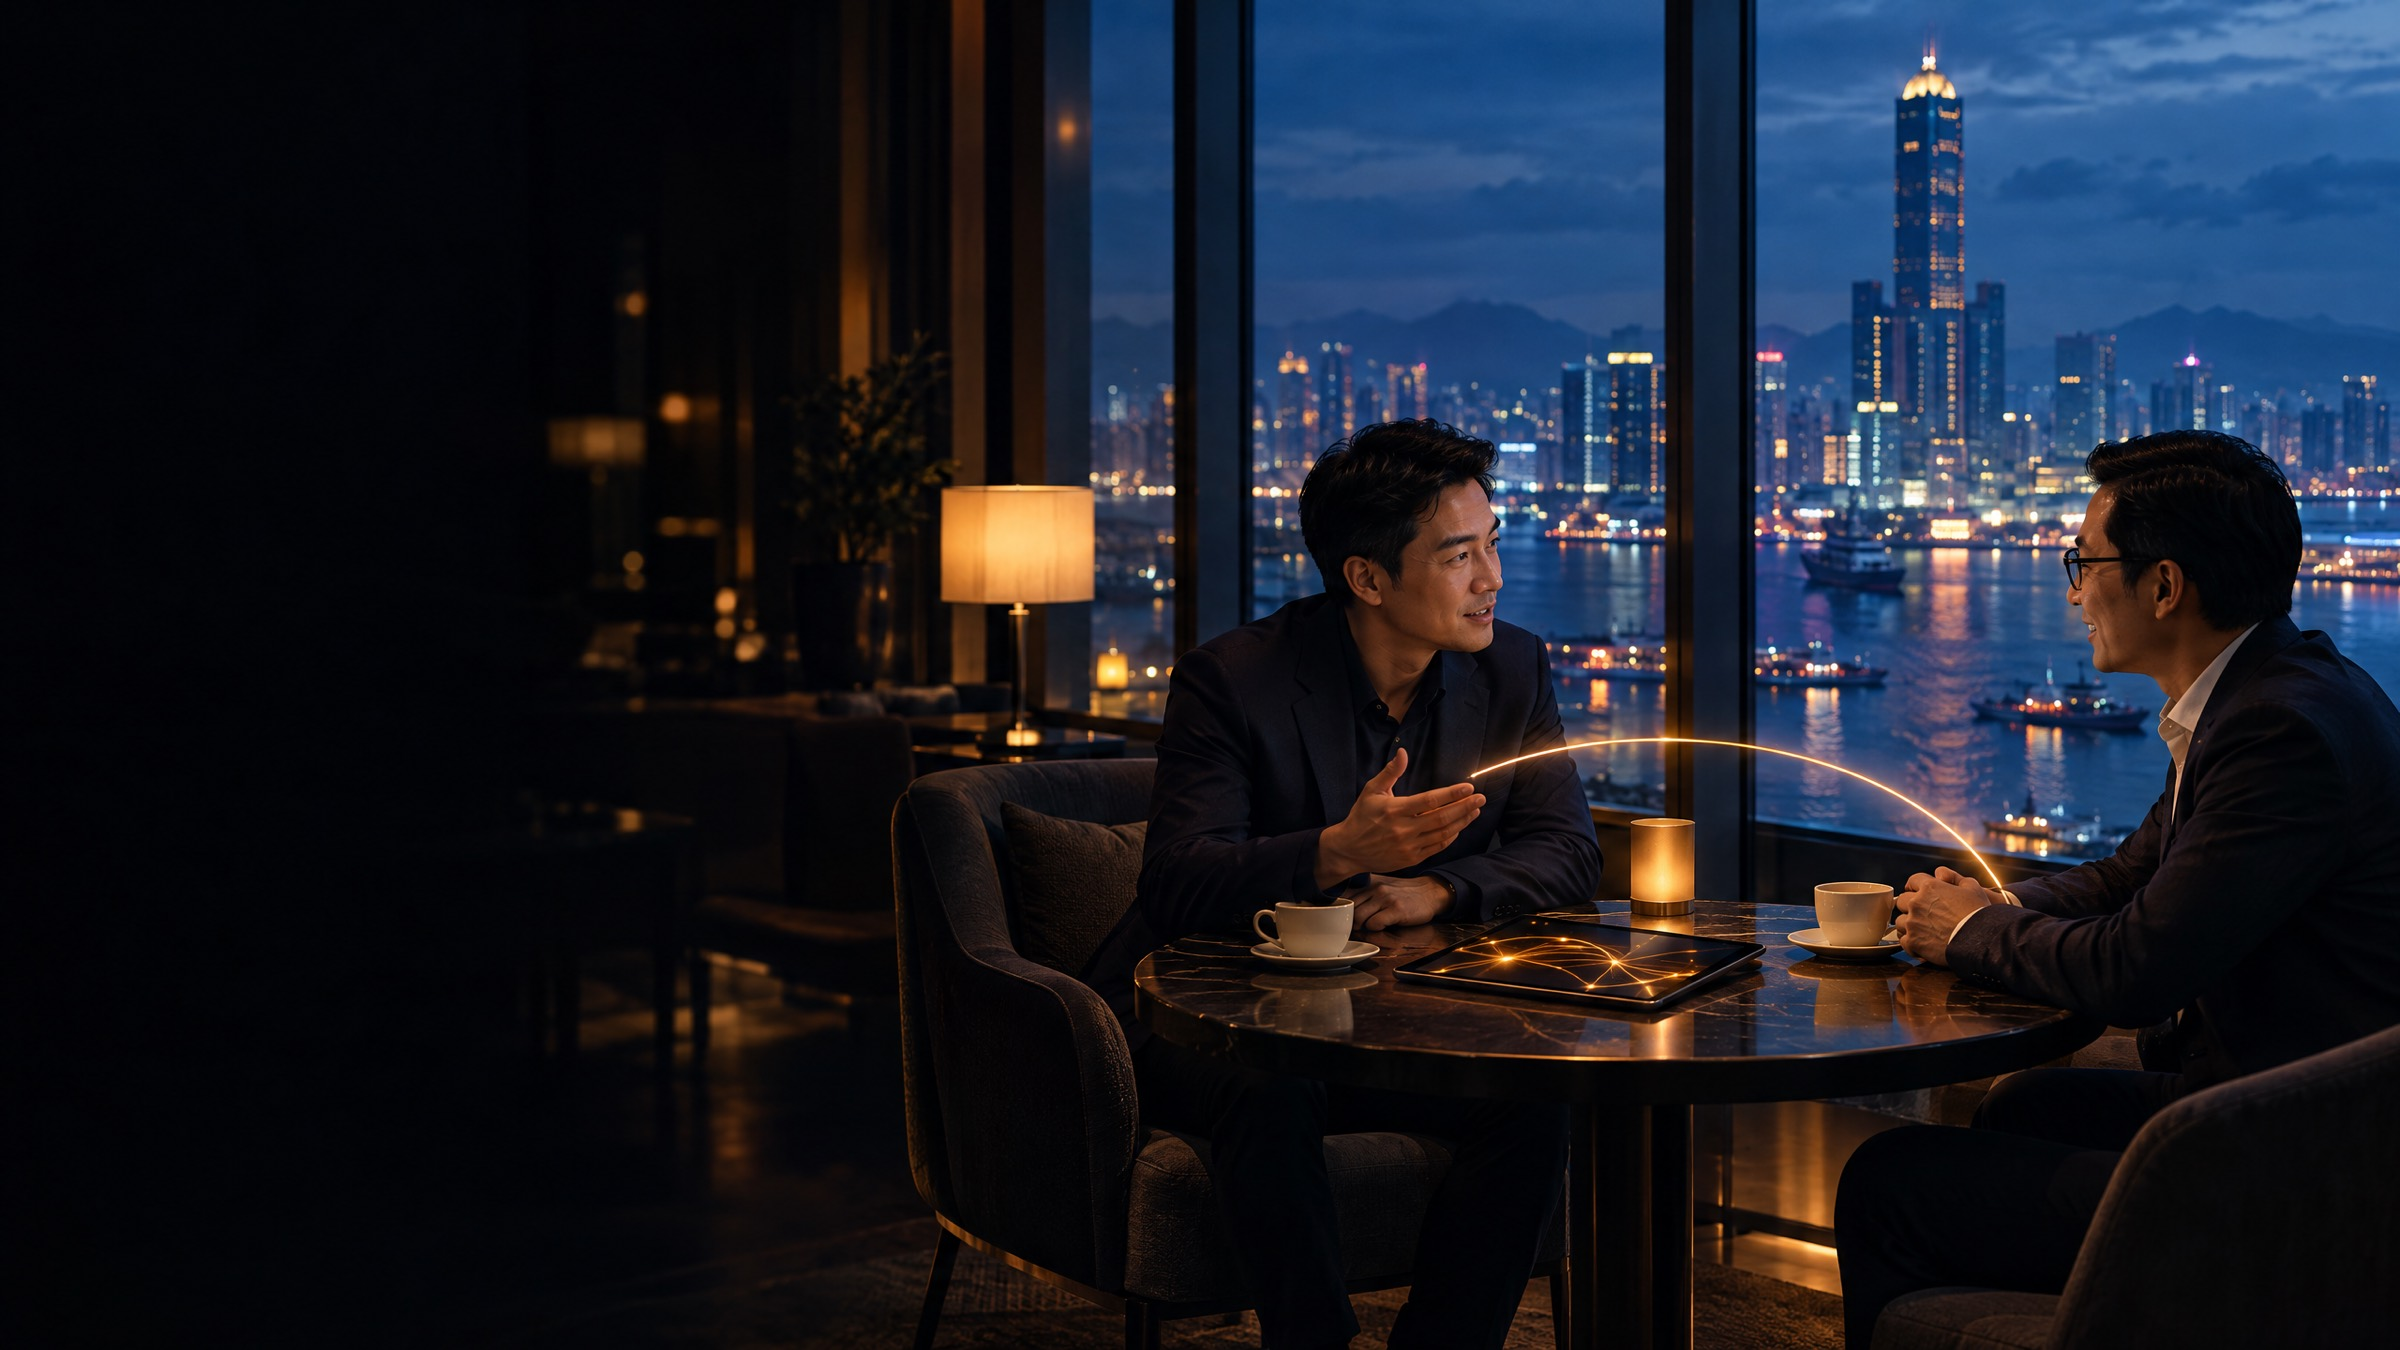
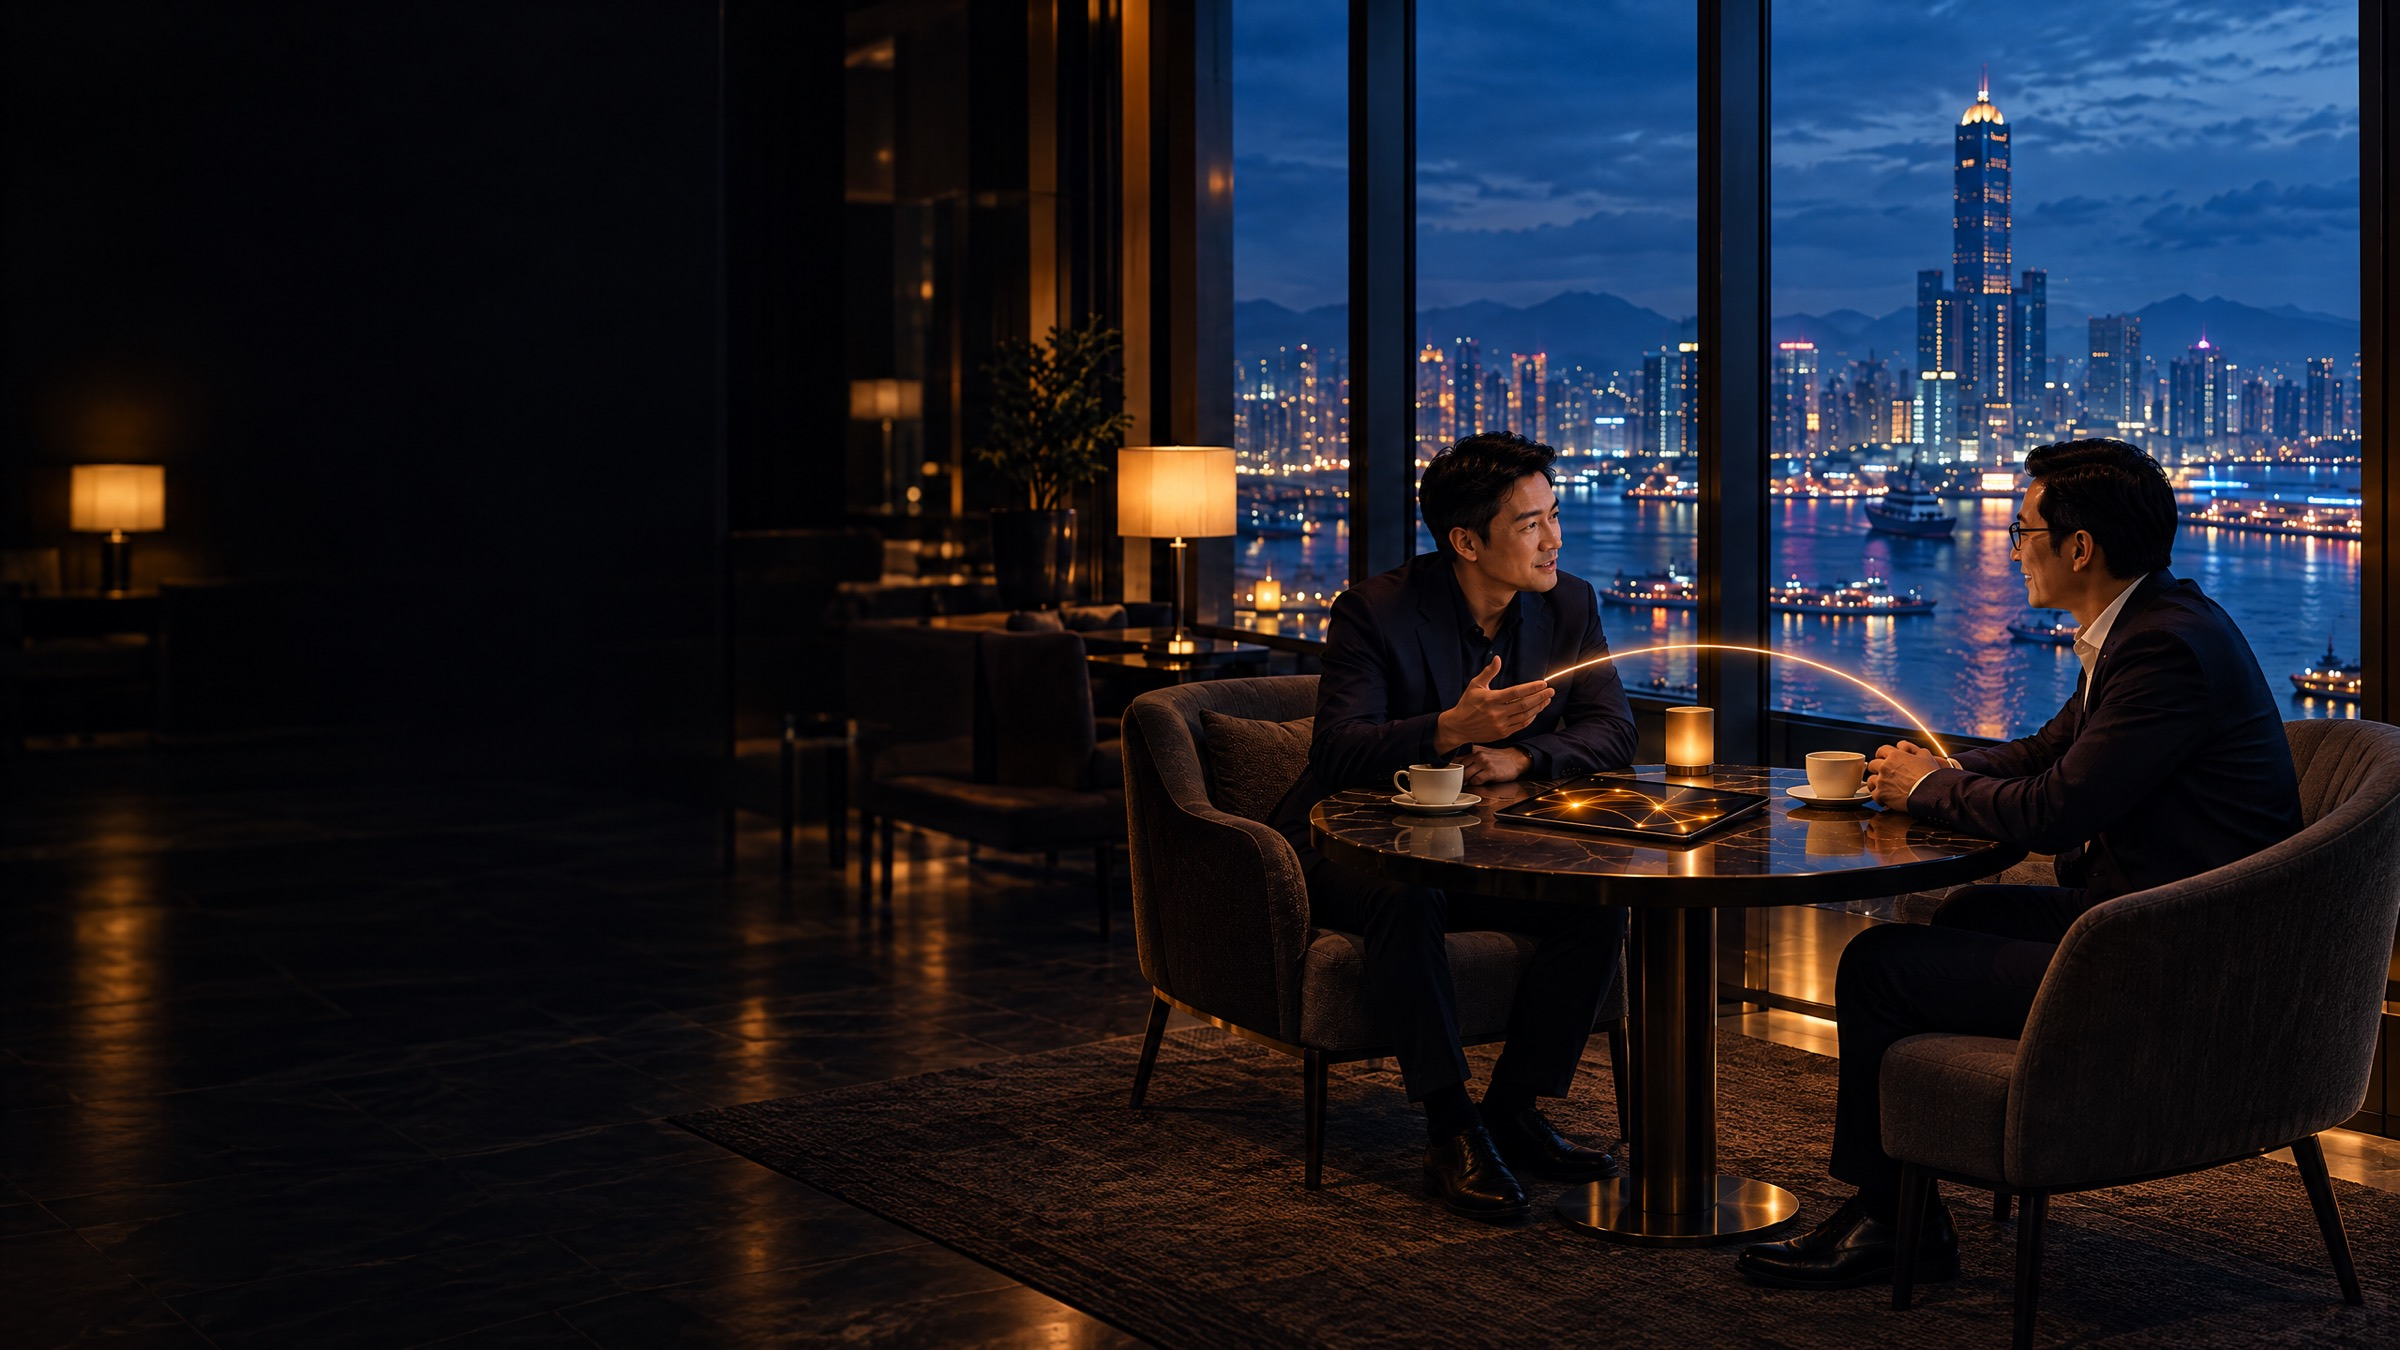
一對一頁首屏：人物完整入鏡不被裁切、標題不壓到人臉、直式視窗改用直式構圖

diff --git a/one-to-one/index.html b/one-to-one/index.html
@@ -23,13 +23,13 @@ a{color:var(--amber)}
 .topnav-links a{font-size:16px;font-weight:500;text-decoration:none;color:var(--text);border:1px solid var(--line);border-radius:3px;padding:7px 15px;transition:background .2s,color .2s}
 .topnav-links a:hover{background:var(--text);color:var(--bg)}
 
-.band{position:relative;min-height:calc(100svh - 62px);display:flex;align-items:center;background:var(--bg) url('img/o2o-hero.jpg') 58% center/cover no-repeat;overflow:hidden}
+.band{position:relative;min-height:calc(100svh - 62px);display:flex;align-items:center;background:var(--bg) url('img/o2o-hero.jpg') 90% center/cover no-repeat;overflow:hidden}
 .band::before{content:"";position:absolute;inset:0;background:linear-gradient(90deg,rgba(5,9,15,.92) 0,rgba(5,9,15,.7) 30%,rgba(5,9,15,.12) 62%,rgba(5,9,15,.1) 100%),linear-gradient(180deg,rgba(5,9,15,.45) 0,rgba(5,9,15,0) 22%,rgba(5,9,15,0) 75%,var(--bg) 100%);pointer-events:none}
 .intro{position:relative;z-index:2;max-width:1320px;width:100%;margin:0 auto;padding:64px 28px 96px}
-.intro>*{max-width:min(32em,40vw)}
+.intro>*{max-width:min(30em,38vw)}
 .intro .wk{display:flex;align-items:center;gap:14px;color:var(--amber);font-size:16px;font-weight:600;letter-spacing:.16em}
 .intro .wk::before{content:"";width:44px;height:1px;background:var(--amber)}
-.intro h1{font-size:clamp(34px,4vw,58px);font-weight:300;line-height:1.22;margin-top:18px;text-wrap:balance;color:#fff;text-shadow:0 2px 30px rgba(0,0,0,.5)}
+.intro h1{font-size:clamp(34px,3.7vw,56px);max-width:min(9em,38vw);font-weight:300;line-height:1.22;margin-top:18px;text-wrap:balance;color:#fff;text-shadow:0 2px 30px rgba(0,0,0,.5)}
 .intro p{margin-top:18px;font-size:18px;color:rgba(238,242,247,.88)}
 .intro .how{margin-top:20px;padding:2px 0 2px 16px;border-left:2px solid var(--amber);font-size:17px;color:var(--text)}
 .weeks{margin-top:24px;display:flex;gap:10px;flex-wrap:wrap;font-size:16px}
@@ -71,6 +71,12 @@ a{color:var(--amber)}
   .intro{padding:40px 18px 40px}
   .intro>*{max-width:none}
 }
+@media(max-aspect-ratio:6/5){
+  .band{min-height:calc(100svh - 56px);align-items:flex-end;background:var(--bg) url('img/o2o-hero-m.jpg') center top/cover no-repeat}
+  .band::before{background:linear-gradient(180deg,rgba(5,9,15,.2) 0,rgba(5,9,15,0) 22%,rgba(5,9,15,0) 40%,rgba(5,9,15,.82) 66%,var(--bg) 100%)}
+  .intro{padding:40px 18px 40px}
+  .intro>*,.intro h1{max-width:none}
+}
 </style>
 </head><body>
 
@@ -97,7 +103,7 @@ a{color:var(--amber)}
 <p>每組的照片是 AI 以兩位會員的簡報形象照合成的日常情境，依當週媒合內容想像，不是實際拍攝的畫面；已取得會員同意。</p>
 </div></footer>
 
-<script src="/one-to-one/pairs.js?v=20261014"></script>
+<script src="/one-to-one/pairs.js?v=20261015"></script>
 <script>
 (function(){
   var W=(window.ONE2ONE&&ONE2ONE.weeks)||[];
